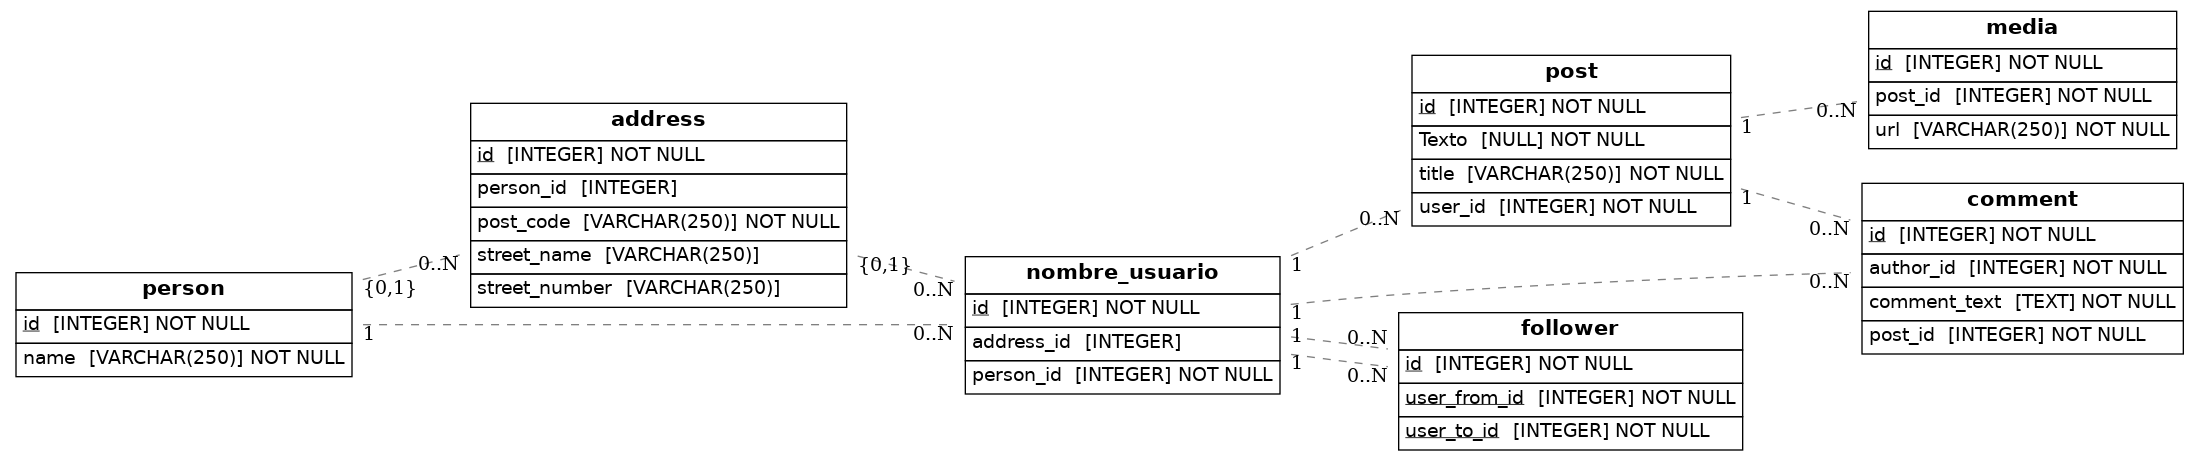
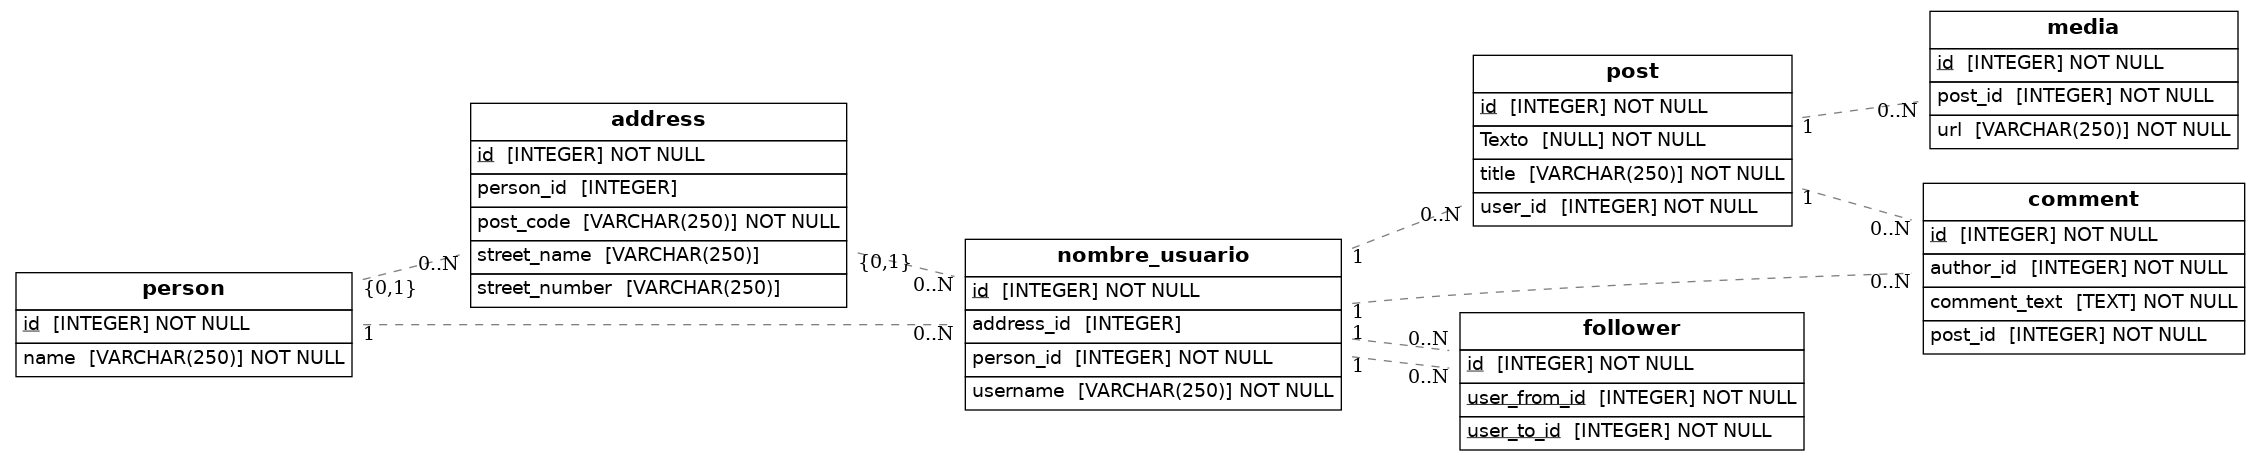
añado mas columnas a NuevoUsuario(username)como un Nic

diff --git a/src/models.py b/src/models.py
@@ -24,11 +24,12 @@ class Address(Base):
 class NombreUsuario(Base):
     __tablename__ = 'nombre_usuario'
     id = Column(Integer, primary_key=True)
+    username = Column(String(250), nullable=False) # columna username de tipo string de 250 caracteres y no puede ser nulo que representa el nombre de usuario(Nickname)
     address = relationship('Address') # relación con la tabla address
     address_id = Column (Integer, ForeignKey('address.id')) # columna address_id de tipo entero que representa el id de la dirección y es una clave foránea que se relaciona con la columna id de la tabla address
     person_id = Column(Integer, ForeignKey('person.id'), nullable=False) # columna person_id de tipo entero y no puede ser nulo que representa el id de la persona y es una clave foránea que se relaciona con la columna id de la tabla person
     person = relationship('Person', back_populates='nombre_usuario') # relación con la tabla person 
-    posts = relationship('Post', back_populates='usuario') # relación con la tabla post 
+    posts = relationship('Post', back_populates='usuario') # relación con la tabla post uno a muchos
     
 Person.nombre_usuario = relationship('NombreUsuario', uselist=False, back_populates='person') # define inversamente la relación entre la tabla person y la tabla nombre_usuario
 # clase post que representa la tabla post con sus distintas relaciones    
